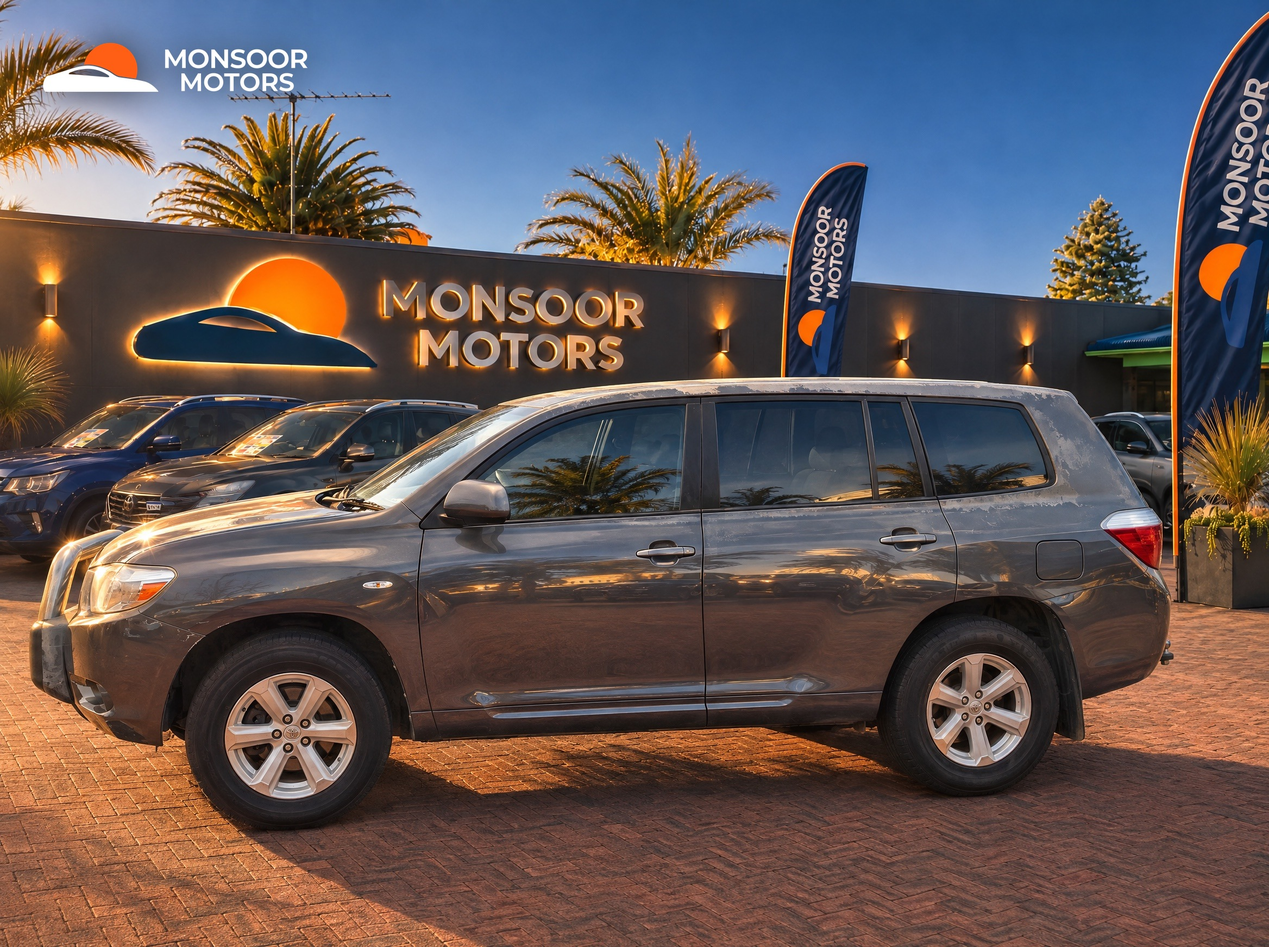
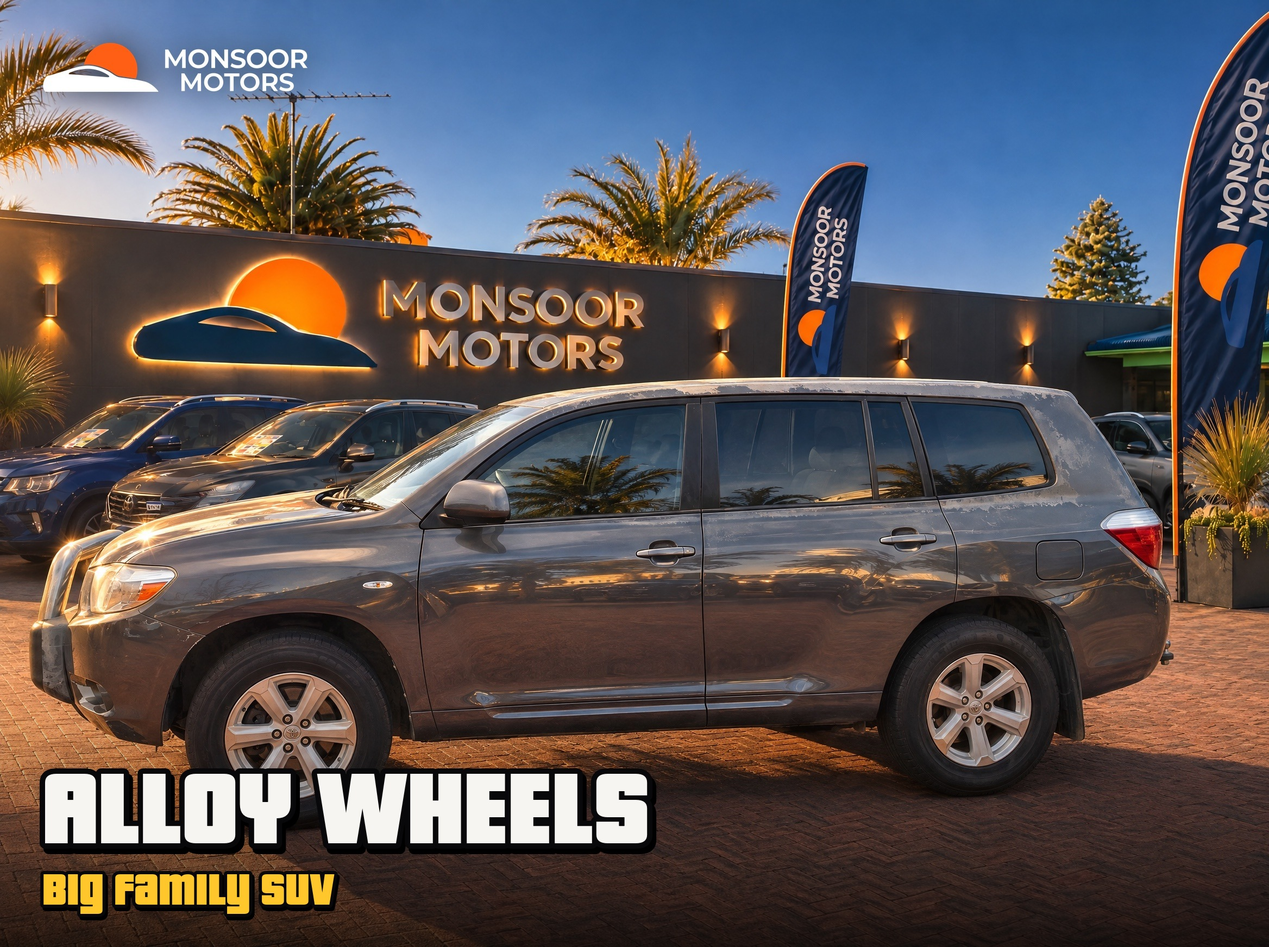
Kluger final 9: GTA-font feature label on each photo

Changed region(s): [[0.0, 0.7431, 1.0, 1.0], [0.7188, 0.7741, 0.8125, 0.805]]

diff --git a/.claude/STATUS.md b/.claude/STATUS.md
@@ -4,6 +4,14 @@ Claude updates this file after every step and pushes it to GitHub. Newest entry 
 
 ---
 
+## 23 Nov 2026: GTA feature labels on the Kluger photos
+
+- **What I did:** added one feature per photo in the GTA font (white Pricedown title, yellow line under it, bottom-left): 3.5L V6, bull bar, alloy wheels, tow bar, automatic, power windows, rear air vents, cargo space. Only features visible in the photos or confirmed on the listing.
+- **Files:** `Cars/Toyota Kluger KX-R V6 AWD (grey)/Final 9/` (photos 2 to 9).
+- **Next:** owner posts.
+
+---
+
 ## 23 Nov 2026: Monsoor logo on all 9 Kluger photos
 
 - **What I did:** added the white Monsoor logo top-left (soft shadow behind it) on photos 2 to 9 of `Final 9`; photo 1 already had it. Caption written in `Post Caption.md`.
